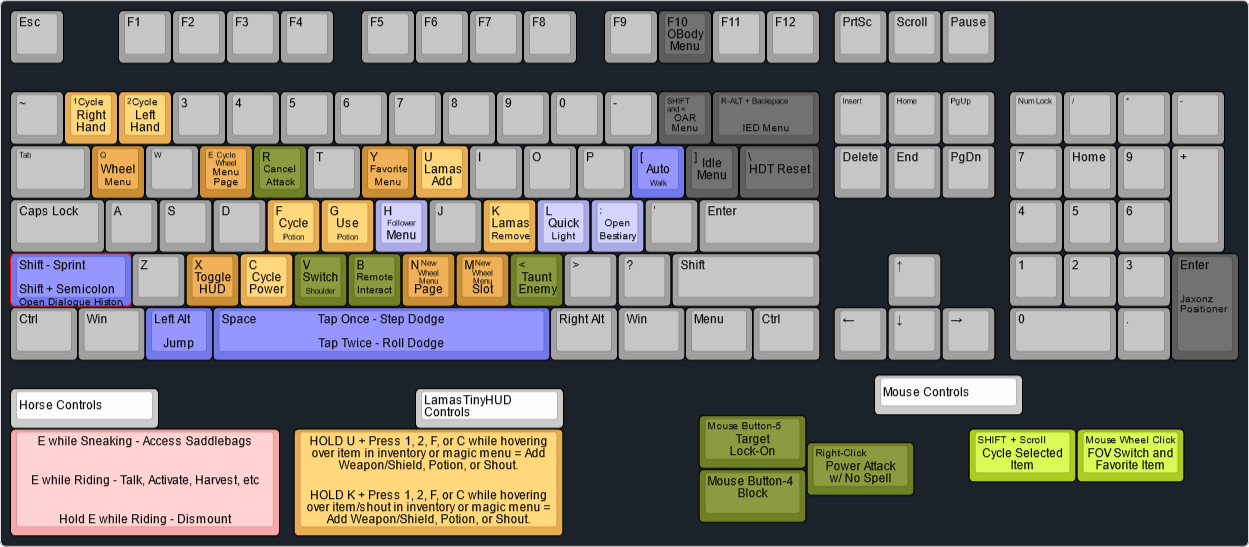
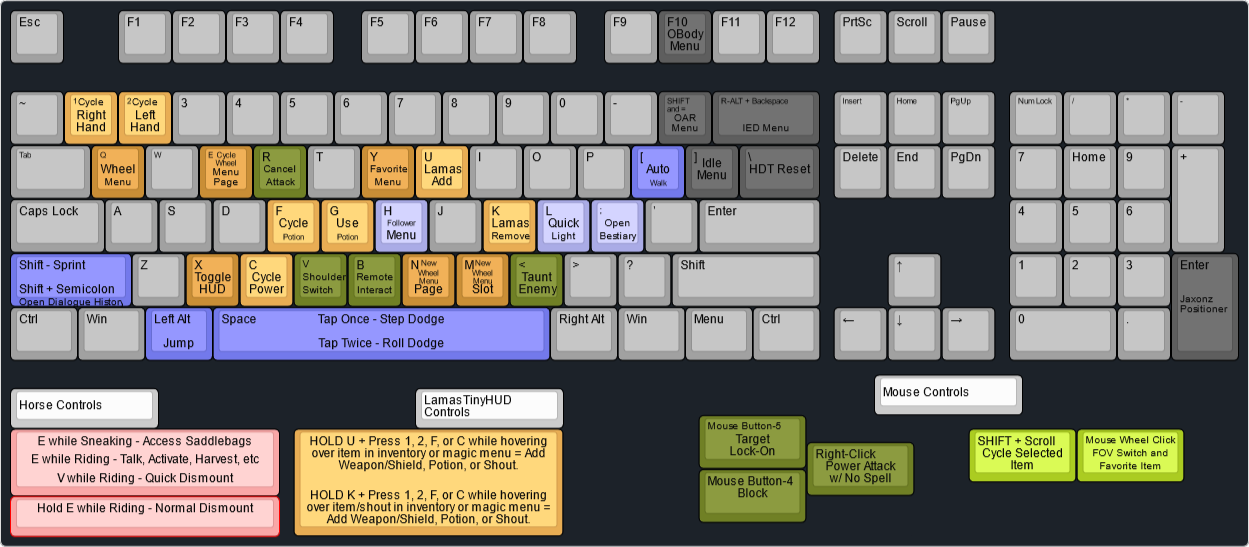
new horse keybinds

diff --git a/content/en/docs/Mandatory Reading/Gameplay Guide/importanthotkeys.md b/content/en/docs/Mandatory Reading/Gameplay Guide/importanthotkeys.md
@@ -113,6 +113,7 @@ Equip items to your right or left hand from the Wheel Menu with Left Click and R
 
 - Switch the shoulder the camera is viewing over. Only applies when a ranged weapon or magic is unsheathed.
 - This can be changed in the SmoothCam MCM menu.
+- This is also used for [quickly dismounting a horse](#v-while-riding-a-horse)
 
 ## Movement
 
@@ -190,8 +191,8 @@ Equip items to your right or left hand from the Wheel Menu with Left Click and R
 
 ### ACTIVATE while sneaking and looking at owned horse
 
-- Access your Horse's saddlebags, for some additional storage
-- This cannot be changed
+- Access your Horse's saddlebags for some additional storage, as well as Immersive Horses settings
+- This can be changed in the Immersive Horses MCM (not recommended).
 
 ### ACTIVATE while riding a horse
 
@@ -202,6 +203,11 @@ Equip items to your right or left hand from the Wheel Menu with Left Click and R
 
 - Dismount the horse
 - You can modify how this works in the "Better Third Person Selection" MCM in the "General" tab, on the right side.
+
+### V while riding a horse
+
+- Quickly dismount your horse from behind into a combat-ready state.
+- This can be changed in the Immersive Horses MCM,
 
 ## Misc
 
